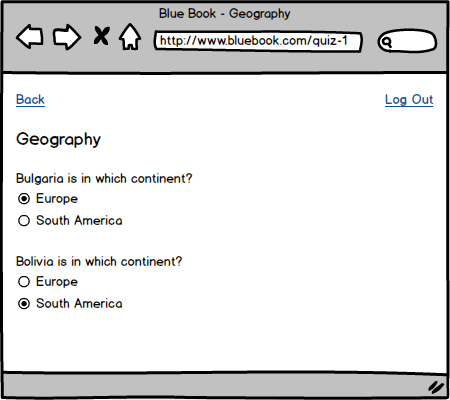
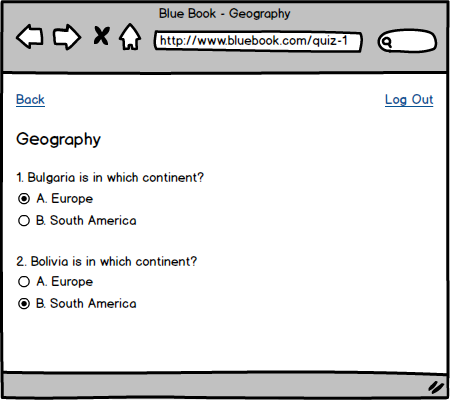
view answer

diff --git a/server/routes/quiz.js b/server/routes/quiz.js
@@ -2,9 +2,11 @@ const Quiz = require('../lib/quiz')
 
 module.exports = async (req, res) => {
   if (req.session.user) {
+    const permission = req.session.user.permission
     const quiz = await Quiz.getOne(req.params.id)
 
     res.render('quiz.ejs', {
+      permission: permission,
       quiz: quiz
     })
   } else {

diff --git a/server/public/main.css b/server/public/main.css
@@ -95,7 +95,7 @@ a:hover {
 }
 
 input[type="radio"] {
-  margin-top: -1px;
+  margin-top: -3px;
   vertical-align: middle;
 }
 
@@ -118,4 +118,8 @@ label:hover {
 
 .answer {
   font-size: 40px;
+}
+
+.amber {
+  color: #ffbb00;
 }

diff --git a/Design Documentation.md b/Design Documentation.md
@@ -6,8 +6,15 @@
 
 #### Assumptions:
 
-- Once logged in, there will be quizzes a user can select.
-- Users with view access are able to see answers so that they can score quiz attempts.
+Page 6, first bullet in the **Viewing and Editing** section: _"A user with Restricted permission can select a quiz from available quizzes. Having selected the quiz, all questions in that quiz can be viewed on the screen."_
+
+This does not state that the answers to each question will also be viewed on the screen, however also on page 6, second bullet in the **Quizzes** section: _"Each answer is a text string, **shown in the user interface** indexed by an uppercase character."_
+
+So, I am assuming the answers to each question will also be viewed on the screen.
+
+Page 7, second bullet in the **Viewing and Editing** section: _"A user with View permission can select and view a quiz as above. They can also select a question to see the associated answers."_
+
+As I have already assumed the answers to each question will be viewed on the screen by a user with Restricted permissions, I am assuming the these sentences to mean: _"A user with View permission can select and view a quiz as above. They can also select a question to see **[its]** associated **[correct]** answer."_
 
 #### User Stories:
 
@@ -98,3 +105,11 @@ The quiz name will be near the top of the page.
 The questions with be below the quiz name.
 
 The answers will be below each question.
+
+View permission:
+
+![Answer](images/answer.png)
+
+When logged in as a user with View permission, there will be a button beside each question.
+
+Each button will toggle a style to indicate the correct answer for that question.
